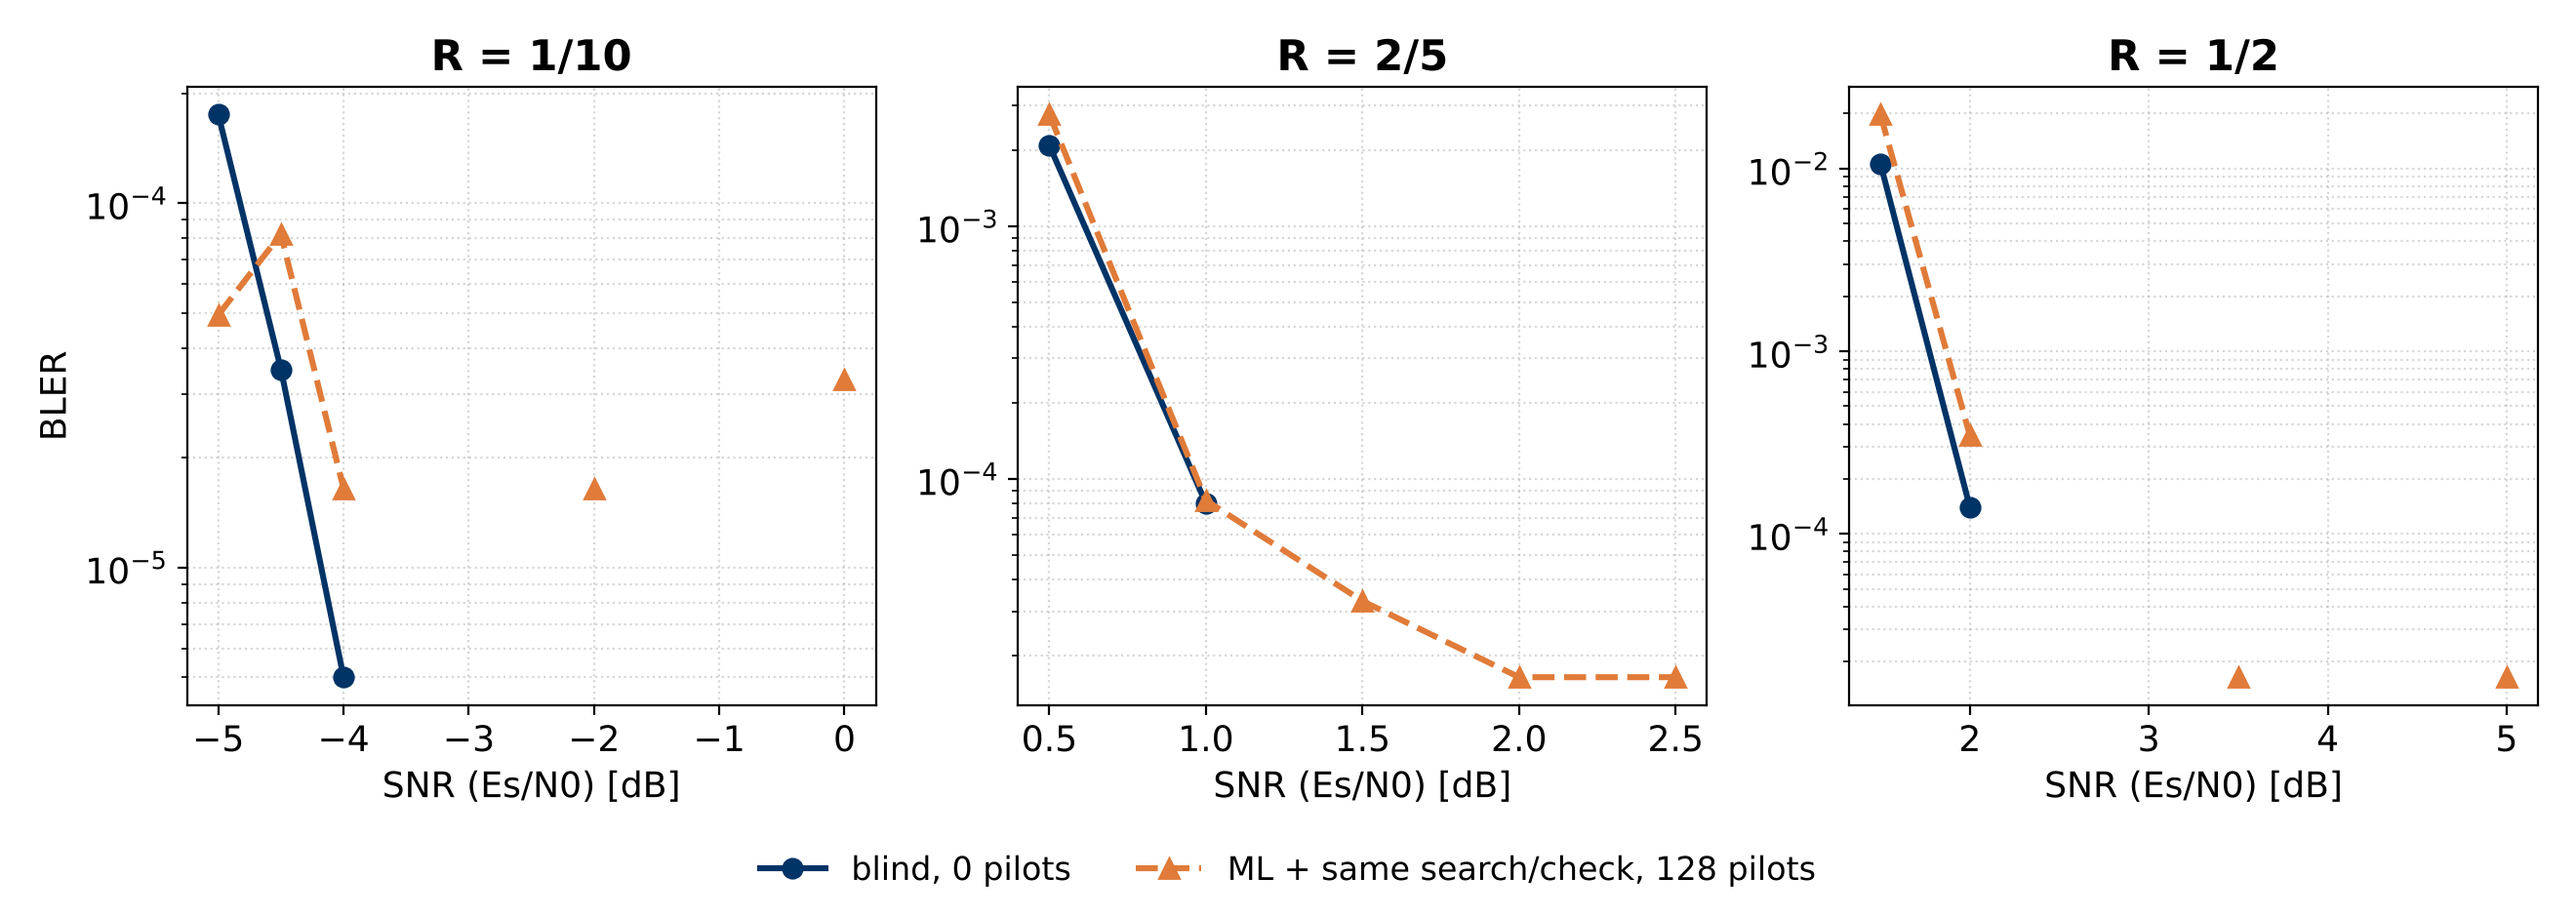
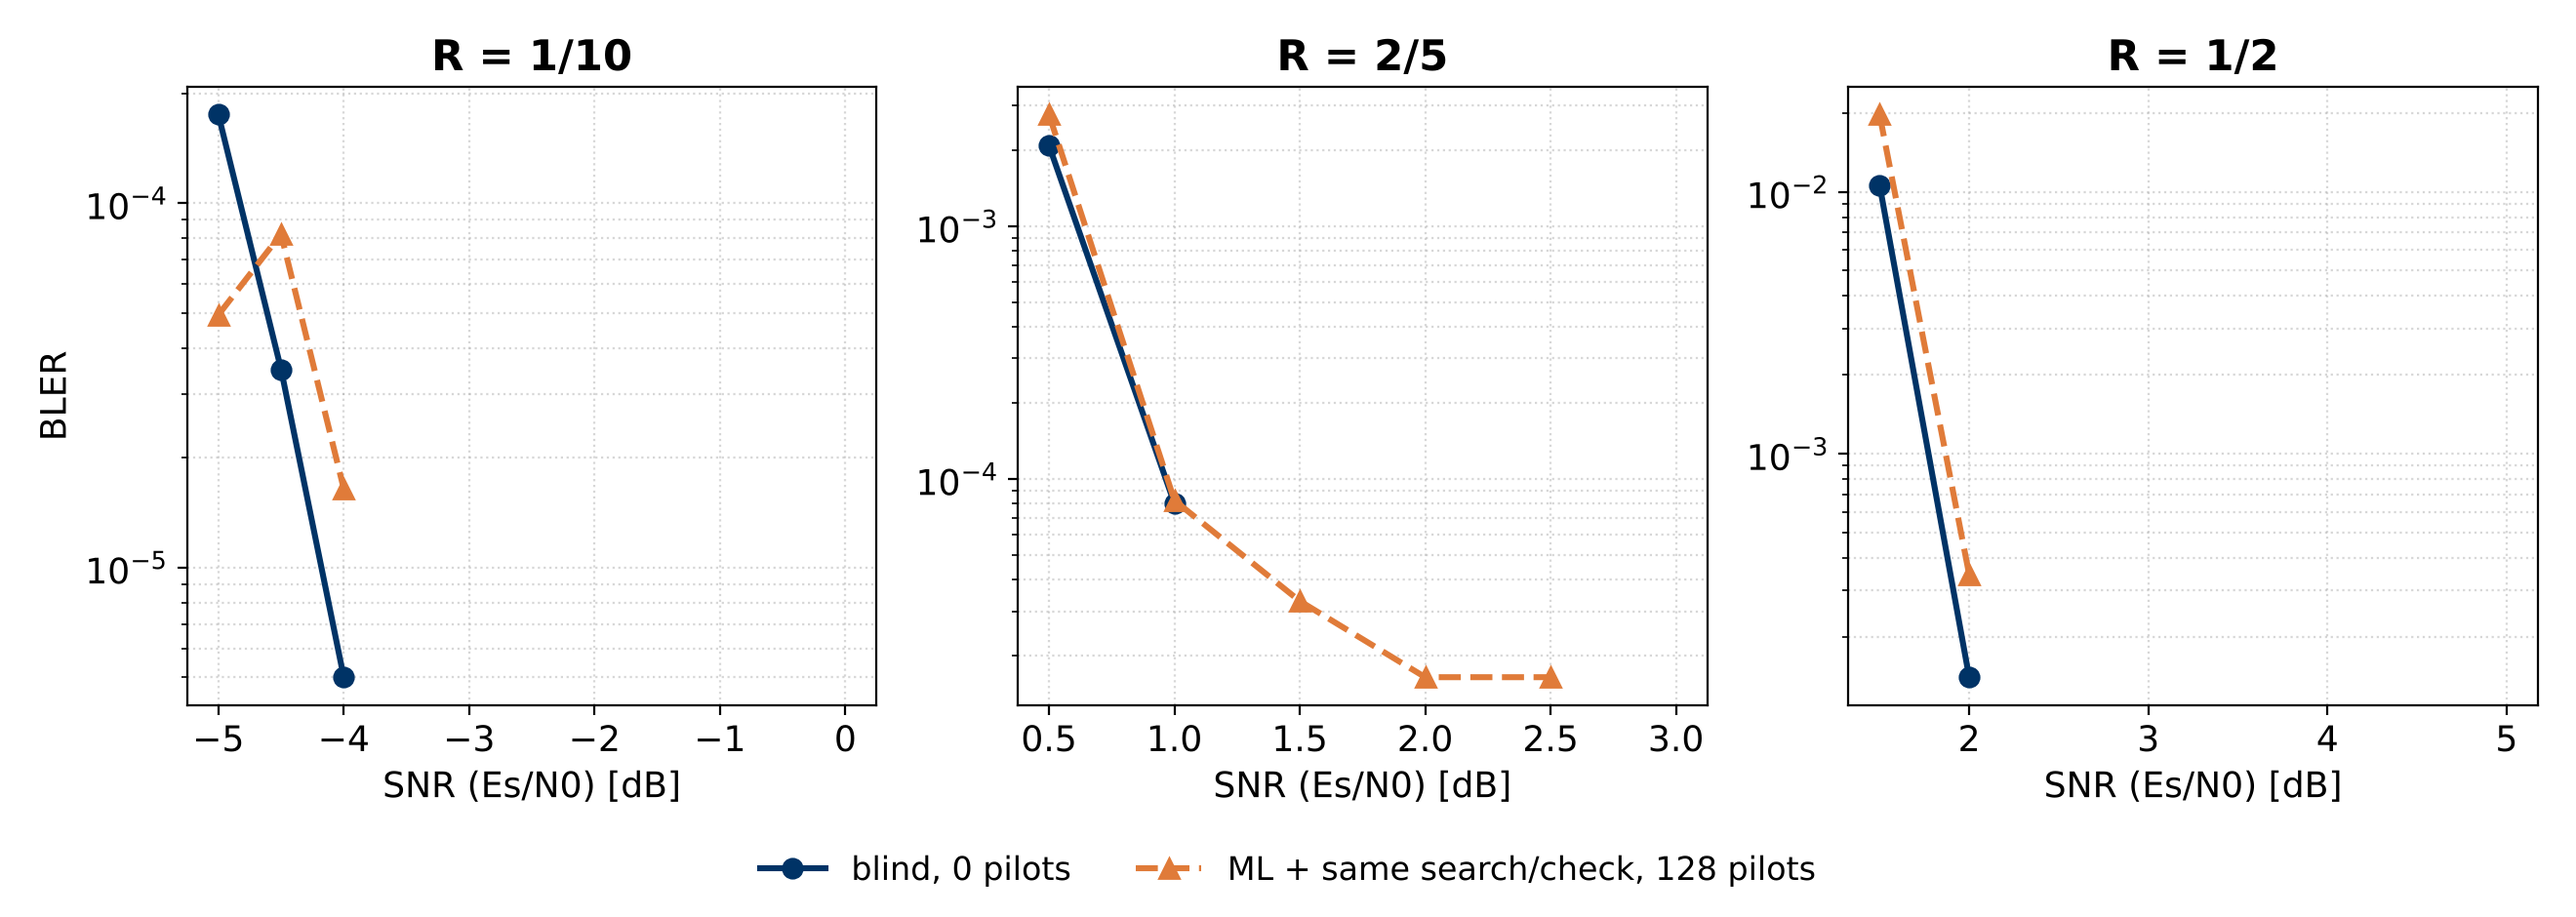
BLER slide plot: drop isolated single-SNR error points, keep the full SNR axis
Claude-Session: https://claude.ai/code/session_01Uut9iw5SnA6a3eeYDv3vkc

diff --git a/slides_eq/plot_bler.py b/slides_eq/plot_bler.py
@@ -3,7 +3,8 @@
 Benchmark: ML direct (FFT 512 + 2 Newton) on 128 contiguous pilots, with the same CRC-16 search and the same
 re-encoding check as blind (study est3/).  Blind: the final receivers of the |f| <= 0.03 study.
 Each point is the measured BLER = errors / packets. Points with 0 errors cannot be drawn on a log axis and are
-left out; lines join only adjacent simulated SNRs that both had errors.
+left out; lines join adjacent simulated SNRs that both had errors. Isolated points (an SNR with errors whose
+neighbouring simulated SNRs had none) are not drawn.
 
 Usage:  python slides_eq/plot_bler.py <dir with est3 bler_k*.json and blind_ber.json>
 """
@@ -38,20 +39,23 @@ for ax, (rate, (lo, hi)) in zip(axs, RANGE.items()):
                 if x["rate"] == rate and x["rx"] == BLIND_RX[rate] and lo <= x["snr"] <= hi)
     for pts, lab, c, mk, ls, dx in ((bl, "blind, 0 pilots", NAVY, "o", "-", 0.0),
                                     (ml, "ML + same search/check, 128 pilots", ORANGE, "^", "--", 0.0)):
-        e = [p for p in pts if p[1]]
-        x = [p[0] + dx for p in e]
-        y = [p[1] / p[2] for p in e]
-        ax.plot(x, y, color=c, ls="none", marker=mk, ms=7, label=lab)
-        run = []                                      # lines only between adjacent SNRs that both had errors
+        runs, run = [], []                            # runs of adjacent simulated SNRs that all had errors
         for p in pts + [(None, 0, 1)]:
             if p[1]:
-                run.append((p[0] + dx, p[1] / p[2]))
+                run.append((p[0], p[1] / p[2]))
                 continue
-            if len(run) > 1:
-                ax.plot(*zip(*run), color=c, ls=ls, lw=2.2)
+            if run:
+                runs.append(run)
             run = []
+        for r in runs:
+            if len(r) > 1:                            # isolated points (one error-bearing SNR alone) are not drawn
+                ax.plot(*zip(*r), color=c, ls=ls, lw=2.2, marker=mk, ms=7)
+            else:
+                print("  not drawn (isolated):", rate, lab, r)
         print(rate, lab, [(p[0], p[1], p[2]) for p in pts])
     ax.set_yscale("log")
+    pad = 0.05 * (hi - lo)
+    ax.set_xlim(lo - pad, hi + pad)                   # keep the full simulated SNR span
     ax.set_xlabel("SNR (Es/N0) [dB]")
     ax.set_title(f"R = {rate}", fontweight="bold")
     ax.grid(True, which="both", ls=":", alpha=0.5)
